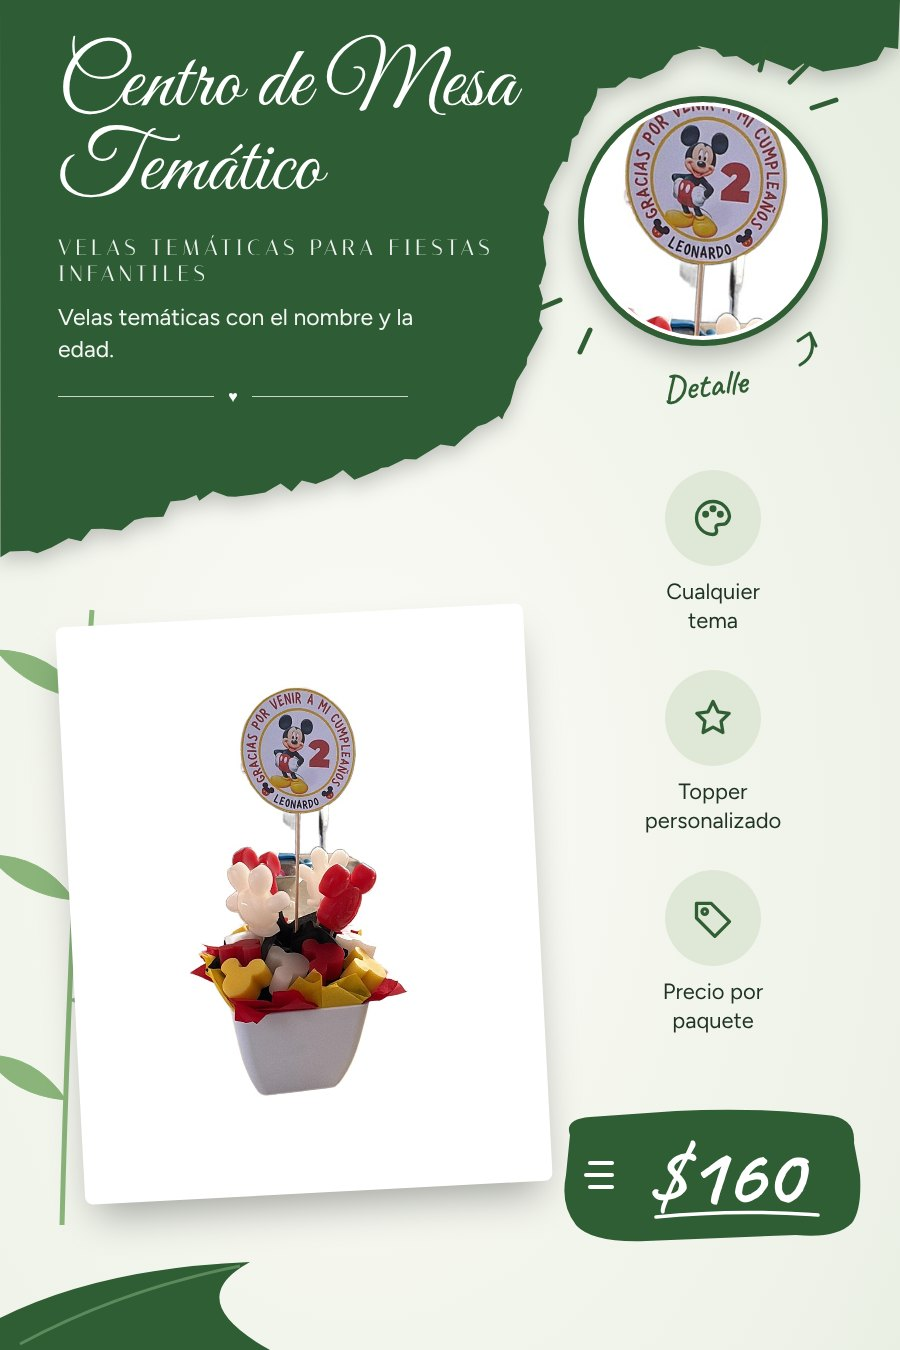
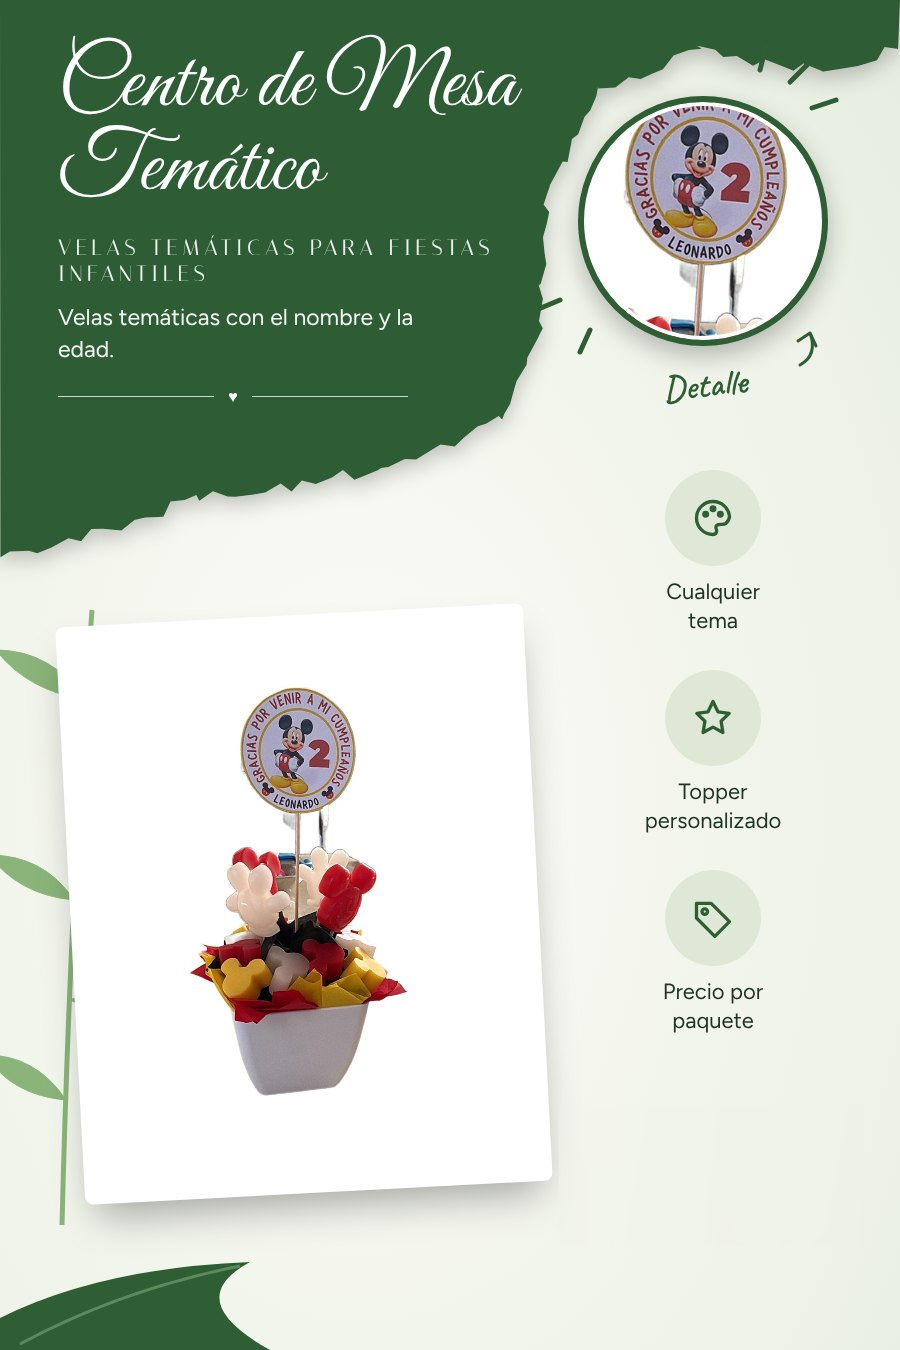
Precios editables: etiqueta de precio como texto sobre las fichas y lectura opcional desde Hoja de Google
Claude-Session: https://claude.ai/code/session_013YesPNoh7z3SuMNNnJAgFW

Changed region(s): [[0.6222, 0.8089, 0.9644, 0.9333]]

diff --git a/inicio.html b/inicio.html
@@ -10,7 +10,7 @@
 <meta name="theme-color" content="#2f5d34">
 <link rel="preconnect" href="https://fonts.googleapis.com">
 <link rel="preconnect" href="https://fonts.gstatic.com" crossorigin>
-<link rel="stylesheet" href="https://fonts.googleapis.com/css2?family=Great+Vibes&family=Italiana&family=Figtree:wght@400;500;600&display=swap">
+<link rel="stylesheet" href="https://fonts.googleapis.com/css2?family=Great+Vibes&family=Italiana&family=Figtree:wght@400;500;600&family=Caveat:wght@700&display=swap">
 <style>
 :root{
   --bg:#f4f7f1; --card:#ffffff; --ink:#1f3322; --muted:#5f7560; --line:#dbe5d5;
@@ -67,7 +67,13 @@ img{max-width:100%;display:block}
 .gal{min-width:0}
 .slides{display:flex;overflow-x:auto;scroll-snap-type:x mandatory;border-radius:22px;scrollbar-width:none;background:var(--card)}
 .slides::-webkit-scrollbar{display:none}
-.slides img{flex:0 0 100%;width:100%;scroll-snap-align:center;object-fit:contain;aspect-ratio:2/3;background:var(--card)}
+.slides .slide{flex:0 0 100%;position:relative;scroll-snap-align:center;container-type:inline-size}
+.slides .slide img{display:block;width:100%;object-fit:contain;aspect-ratio:2/3;background:var(--card)}
+/* Etiqueta de precio sobre la ficha (el precio ya no va impreso en la foto) */
+.ptag{position:absolute;left:62.78%;top:82.22%;width:32.67%;height:9.63%;display:flex;align-items:center;justify-content:center;gap:7%;
+  background:#2f5e34;color:#fff;border-radius:16px 7px 14px 8px/38px 30px 34px 28px;font-family:"Caveat","Segoe Script",cursive;font-weight:700;pointer-events:none}
+.ptag i{font:normal 400 5.2cqw/1 var(--body);opacity:.9}
+.ptag b{font-size:9.6cqw;line-height:1;border-bottom:.35cqw solid #fff;padding:0 .8cqw .2cqw}
 .dots{display:flex;justify-content:center;gap:8px;margin-top:12px}
 .dots button{width:9px;height:9px;border-radius:50%;border:0;padding:0;background:var(--line);cursor:pointer}
 .dots button[aria-current="true"]{background:var(--green);width:24px;border-radius:9px}
@@ -148,7 +154,7 @@ if(CATS[cat]) $("lema").textContent = CATS[cat];
 $("count").textContent = lista.length + (lista.length === 1 ? " modelo disponible" : " modelos disponibles");
 const waLink = v => "https://wa.me/" + C.whatsapp + "?text=" + encodeURIComponent("Hola, quiero comprar la vela " + v.nombre + " (" + money(v.precio) + "). " + location.origin + location.pathname + "#" + v.id);
 
-$("grid").innerHTML = lista.map(v => `
+const pintarLista = () => { $("grid").innerHTML = lista.map(v => `
   <div class="card"><a class="card-link" href="#${v.id}">
     <div class="ph"><img src="${v.portada}" alt="${v.nombre}" loading="lazy"></div>
     <div class="tx">
@@ -158,7 +164,7 @@ $("grid").innerHTML = lista.map(v => `
         <span class="more">Ver detalles <svg width="16" height="16" viewBox="0 0 24 24" fill="none" stroke="currentColor" stroke-width="2.4" stroke-linecap="round"><path d="M9 6l6 6-6 6"/></svg></span></div>
     </div></a>
     ${C.whatsapp ? `<div class="acts"><a class="btn" href="${waLink(v)}" target="_blank" rel="noopener">Comprar</a></div>` : ""}
-  </div>`).join("");
+  </div>`).join(""); };
 
 let listScroll = 0, fromList = false;
 function show(){
@@ -171,7 +177,7 @@ function show(){
   $("dDesc").textContent = v.descripcion; $("dPrecio").textContent = money(v.precio);
   $("dDet").innerHTML = (v.detalles||[]).map(([k,val]) => `<dt>${k}</dt><dd>${val}</dd>`).join("");
   $("dIdeal").hidden = !v.ideal; $("dIdeal").innerHTML = v.ideal ? `<b>Ideal para:</b> ${v.ideal}` : "";
-  $("slides").innerHTML = v.fotos.map(f => `<img src="${f.src}" alt="${f.alt}">`).join("");
+  $("slides").innerHTML = v.fotos.map(f => `<div class="slide"><img src="${f.src}" alt="${f.alt}">${/-ficha\.jpg$/.test(f.src) ? `<span class="ptag"><i>≡</i><b>${money(v.precio)}</b></span>` : ""}</div>`).join("");
   $("slides").scrollLeft = 0;
   $("dots").innerHTML = v.fotos.length > 1 ? v.fotos.map((_,i) => `<button type="button" aria-label="Foto ${i+1}" aria-current="${i===0}"></button>`).join("") : "";
   [...$("dots").children].forEach((b,i) => b.onclick = () => $("slides").scrollTo({left:i*$("slides").clientWidth,behavior:"smooth"}));
@@ -190,7 +196,47 @@ $("share").onclick = async () => {
   try{ if(navigator.share){ await navigator.share({title,url}); return; } }catch(e){ return; }
   try{ await navigator.clipboard.writeText(url); toast("Link copiado"); }catch(e){ toast(url); }
 };
-window.addEventListener("hashchange", show); show();
+window.addEventListener("hashchange", show);
+
+// Precios: si hay una Hoja de Google publicada (C.hojaPrecios), sus precios mandan sobre los de velas.js.
+// Si no carga (sin internet, enlace vacío), se usan los de velas.js.
+function leerCSV(t){
+  const filas = []; let f = [], c = "", q = false;
+  for(let i = 0; i < t.length; i++){
+    const ch = t[i];
+    if(q){ if(ch === '"'){ if(t[i+1] === '"'){ c += '"'; i++; } else q = false; } else c += ch; }
+    else if(ch === '"') q = true;
+    else if(ch === ","){ f.push(c); c = ""; }
+    else if(ch === "\n" || ch === "\r"){ if(ch === "\r" && t[i+1] === "\n") i++; f.push(c); c = ""; filas.push(f); f = []; }
+    else c += ch;
+  }
+  if(c !== "" || f.length){ f.push(c); filas.push(f); }
+  return filas;
+}
+async function cargarPrecios(){
+  if(!C.hojaPrecios) return false;
+  try{
+    const r = await fetch(C.hojaPrecios + (C.hojaPrecios.includes("?") ? "&" : "?") + "t=" + Date.now(), {cache:"no-store"});
+    if(!r.ok) return false;
+    const filas = leerCSV(await r.text());
+    const enc = (filas[0] || []).map(h => h.trim().toLowerCase());
+    const iId = enc.indexOf("id"), iP = enc.indexOf("precio");
+    if(iId < 0 || iP < 0) return false;
+    let cambio = false;
+    filas.slice(1).forEach(f => {
+      const v = C.velas.find(x => x.id === (f[iId] || "").trim());
+      const p = Number(String(f[iP] || "").replace(/[^0-9.]/g, ""));
+      if(v && p > 0 && v.precio !== p){ v.precio = p; cambio = true; }
+    });
+    return cambio;
+  }catch(e){ return false; }
+}
+(async () => {
+  const espera = cargarPrecios();
+  await Promise.race([espera, new Promise(ok => setTimeout(ok, 1200))]);
+  pintarLista(); show();
+  espera.then(cambio => { if(cambio){ pintarLista(); show(); } });
+})();
 </script>
 <script data-goatcounter="https://velare.goatcounter.com/count" async src="//gc.zgo.at/count.js"></script>
 </body>

diff --git a/velas.js b/velas.js
@@ -4,6 +4,9 @@ window.CATALOGO = {
   instagram: "velare.candle",
   lema: "Hecho a mano con amor",
   whatsapp: "523322682222", // ejemplo: "523411234567" (con 52 y lada, sin espacios)
+  // Enlace CSV de la Hoja de Google con los precios (Archivo > Compartir > Publicar en la web > CSV).
+  // Si está vacío o no carga, se usan los precios de abajo (campo "precio" de cada vela).
+  hojaPrecios: "",
   velas: [
     {
       id: "ramo-de-rosas",
